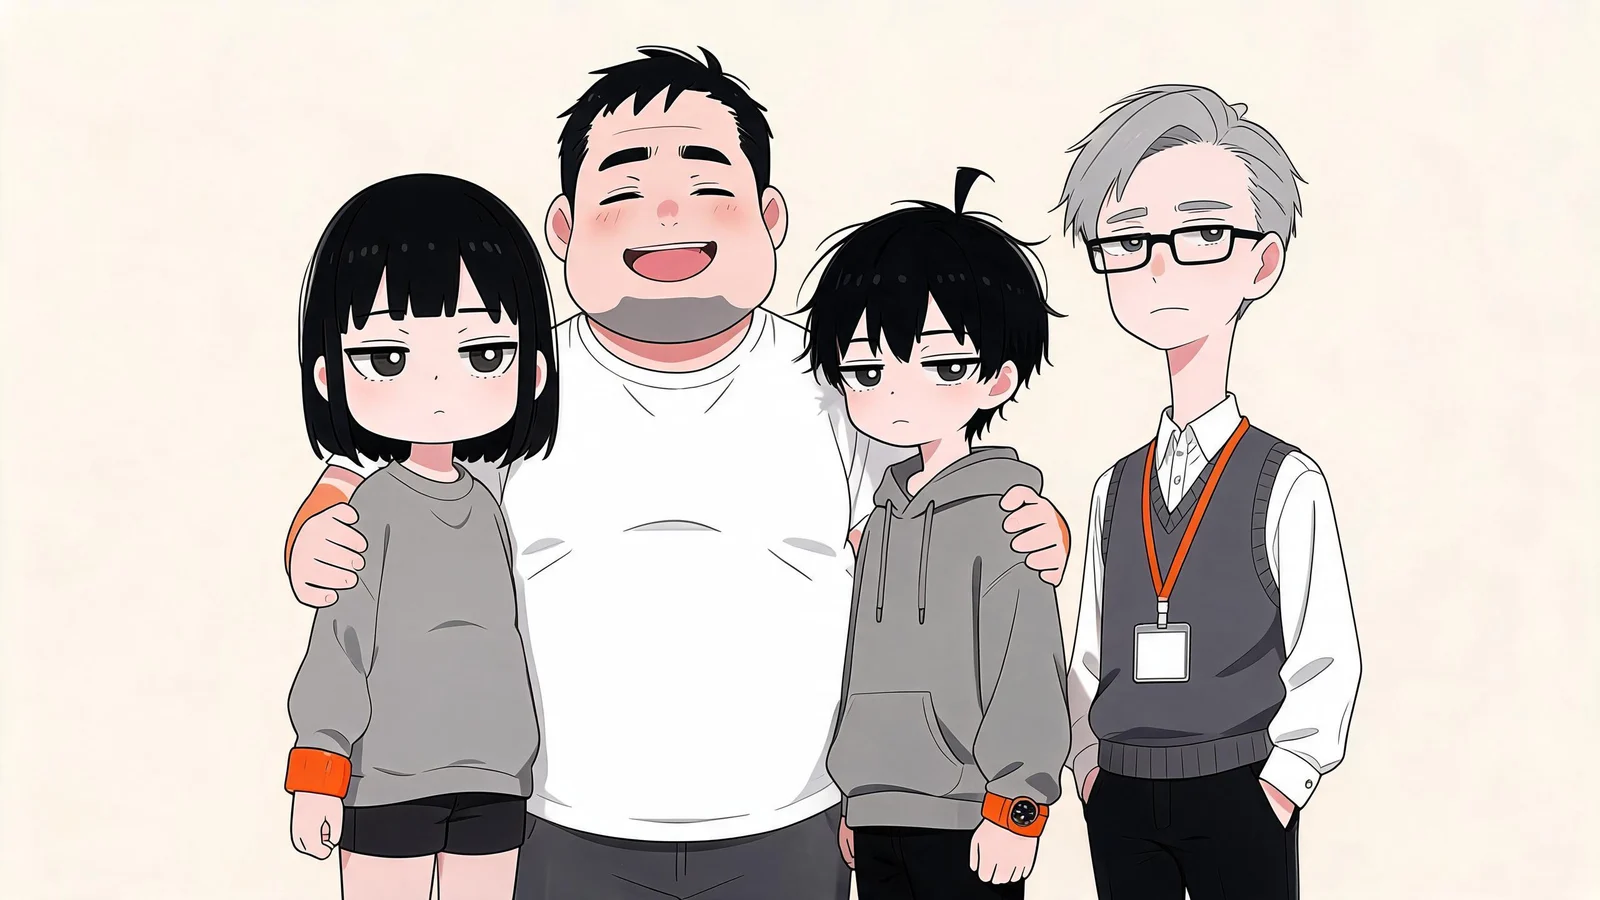
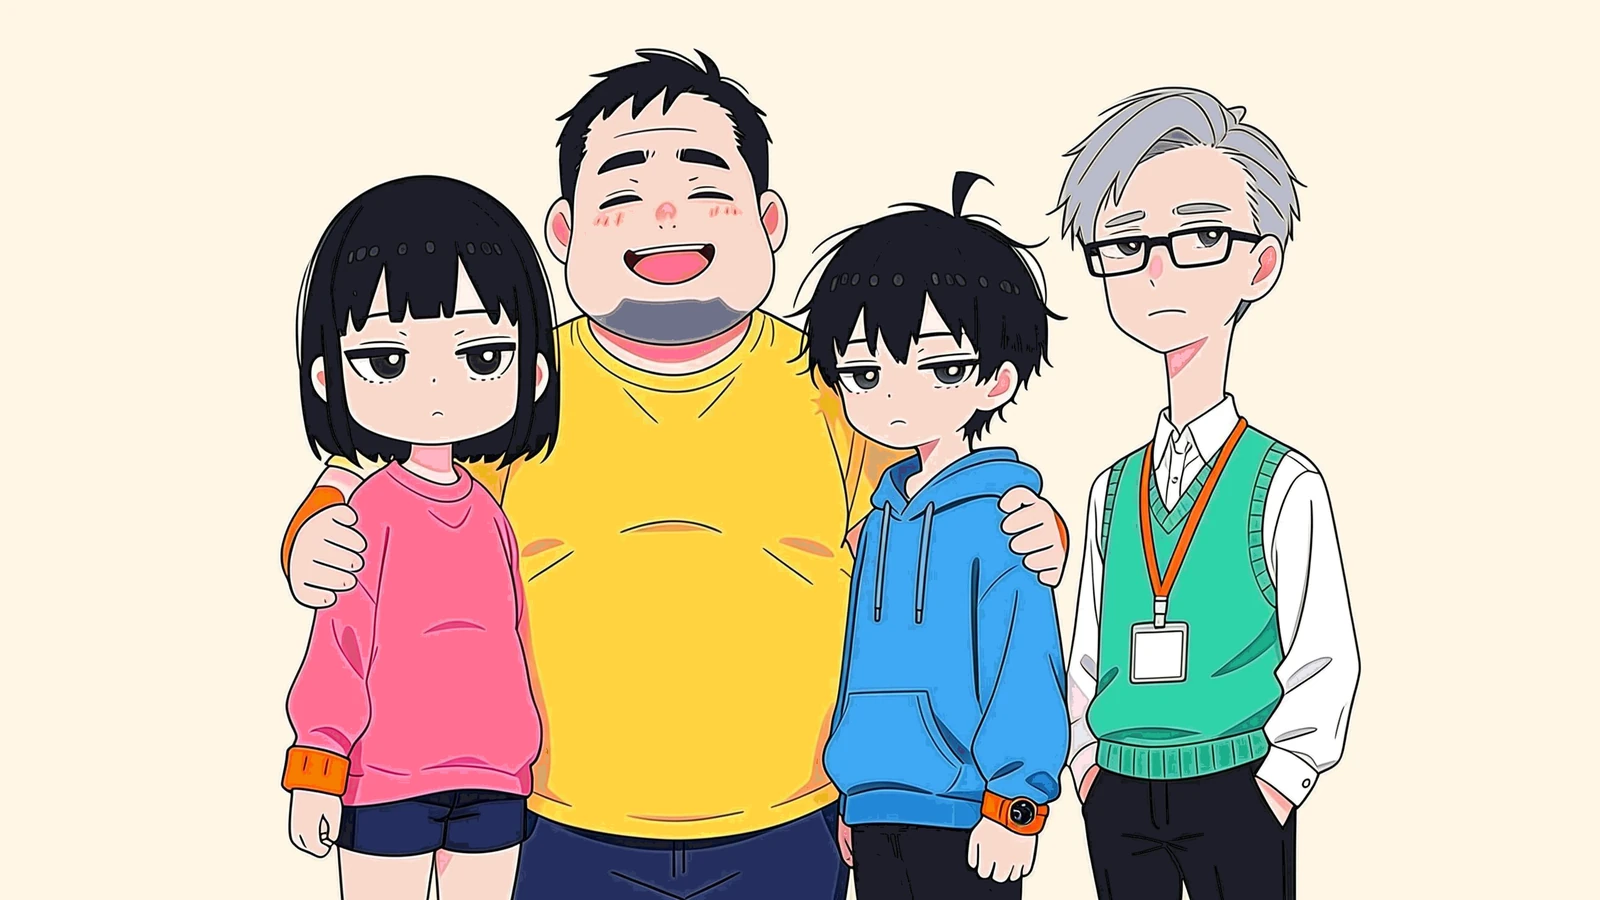
캐릭터 단체 사진(characters/family.webp)을 아동 컬러판(핑크·레몬·하늘색·민트)으로 다시 칠함

diff --git a/_tests/test_recolor_family.py b/_tests/test_recolor_family.py
@@ -1,0 +1,204 @@
+"""Item: recolour the characters group photo (assets/images/characters/family.webp).
+
+Done when
+- the image keeps the size and mode of the bb74c20 original (1600x900 RGB WebP),
+- colourfulness >= 8% AND clearly above the base (the mono base already scores
+  ~8.3% from blush/skin, so the 8% bar alone proves nothing),
+- each person's garment shows its PALETTE.md colour in their own area:
+  sister pink sweatshirt #FF6F91, dad lemon tee #FFD23F, brother sky hoodie
+  #3FA9F5, coworker mint knit vest #2ED3A8 (the base has grey/white clothes),
+- cream background kept, no other image in characters/ touched (scarecrow is
+  out of scope), work PNGs / candidates never land in the repo.
+Run: python _tests/test_recolor_family.py
+"""
+import colorsys
+import os
+import subprocess
+import sys
+import unittest
+
+sys.dont_write_bytecode = True
+sys.path.insert(0, os.path.dirname(os.path.abspath(__file__)))
+import imgcheck  # noqa: E402
+
+REL = "assets/images/characters/family.webp"
+MIN_COLOUR = 0.08
+MIN_GAIN = 0.05        # base ~0.083; four recoloured outfits add far more
+MIN_SHARE = 0.10       # garment colour must cover >= 10% of its torso box
+BASE_MAX_SHARE = 0.03  # sanity: the mono base must stay below this
+
+# Torso boxes as fractions (x0, y0, x1, y1) of the 16:9 frame, left to right:
+# sister | dad | brother | coworker. Generous so a slightly shifted edit still fits.
+BOXES = {
+    "sister": (0.18, 0.55, 0.33, 0.82),
+    "dad": (0.36, 0.40, 0.52, 0.80),
+    "brother": (0.53, 0.58, 0.66, 0.85),
+    "coworker": (0.70, 0.52, 0.80, 0.78),
+}
+
+
+def crop(img, box):
+    w, h = img.size
+    x0, y0, x1, y1 = box
+    return img.crop((int(x0 * w), int(y0 * h), int(x1 * w), int(y1 * h)))
+
+
+def hue_share(img, lo, hi, sat_min=0.30, val_min=0.0, val_max=1.0, max_side=256):
+    """Share of opaque pixels whose hue is in [lo, hi] (wraps if lo > hi)."""
+    img = img.convert("RGBA")
+    if max(img.size) > max_side:
+        img = img.copy()
+        img.thumbnail((max_side, max_side), imgcheck.Image.NEAREST)
+    total = hits = 0
+    for r, g, b, a in img.getdata():
+        if a < 128:
+            continue
+        total += 1
+        h, s, v = colorsys.rgb_to_hsv(r / 255, g / 255, b / 255)
+        h *= 360
+        inside = (lo <= h <= hi) if lo <= hi else (h >= lo or h <= hi)
+        if inside and s >= sat_min and val_min <= v <= val_max:
+            hits += 1
+    return hits / total if total else 0.0
+
+
+def pink_share(img):
+    # pink #FF6F91 (hue ~346); blush is pale (s < 0.35) and must not count
+    return hue_share(img, 325, 10, sat_min=0.40, val_min=0.60)
+
+
+def lemon_share(img):
+    # lemon #FFD23F (hue ~46); tangerine (~30) and cream (s ~0.10) excluded
+    return hue_share(img, 40, 62, sat_min=0.45, val_min=0.70)
+
+
+def sky_share(img):
+    # sky #3FA9F5 (hue ~205, bright); navy (dark) excluded
+    return hue_share(img, 188, 218, sat_min=0.30, val_min=0.70)
+
+
+def mint_share(img):
+    # mint #2ED3A8 (hue ~164)
+    return hue_share(img, 148, 182, sat_min=0.40, val_min=0.50)
+
+
+GARMENT = {
+    "sister": pink_share,
+    "dad": lemon_share,
+    "brother": sky_share,
+    "coworker": mint_share,
+}
+
+
+class TestRecolorFamily(unittest.TestCase):
+    def test_file_exists(self):
+        self.assertTrue(os.path.isfile(imgcheck.repo_path(REL)))
+
+    def test_changed_from_base(self):
+        with open(imgcheck.repo_path(REL), "rb") as f:
+            now = f.read()
+        self.assertFalse(imgcheck.original_bytes(REL) == now,
+                         "still the bb74c20 (mono) file")
+
+    def test_size_and_mode_match_base(self):
+        ok, msg = imgcheck.same_size_mode(REL)
+        self.assertTrue(ok, msg)
+
+    def test_still_webp(self):
+        self.assertEqual(imgcheck.current(REL).format, "WEBP")
+
+    def test_colourful_at_least_8pct_and_above_base(self):
+        old = imgcheck.colourfulness(imgcheck.original(REL))
+        new = imgcheck.colourfulness(imgcheck.current(REL))
+        self.assertGreaterEqual(new, MIN_COLOUR, f"{new:.3f} < {MIN_COLOUR}")
+        self.assertGreaterEqual(new, old + MIN_GAIN,
+                                f"{old:.3f} -> {new:.3f}, need +{MIN_GAIN}")
+
+    def test_each_garment_colour_in_its_place(self):
+        img = imgcheck.current(REL)
+        low = []
+        for who, fn in GARMENT.items():
+            share = fn(crop(img, BOXES[who]))
+            if share < MIN_SHARE:
+                low.append(f"{who}: {share:.3f}")
+        self.assertEqual(low, [], f"garment colour < {MIN_SHARE} in torso box")
+
+    def test_cream_background_kept(self):
+        # Top corners are background: must stay near cream #FFF6E5.
+        img = imgcheck.current(REL).convert("RGB")
+        w, h = img.size
+        bad = []
+        for xy in [(8, 8), (w - 9, 8)]:
+            r, g, b = img.getpixel(xy)
+            if abs(r - 0xFF) > 14 or abs(g - 0xF6) > 14 or abs(b - 0xE5) > 18:
+                bad.append(f"{xy}: {(r, g, b)}")
+        self.assertEqual(bad, [], "background is no longer cream")
+
+    def test_other_character_images_untouched(self):
+        # Only family.webp may change in characters/ (scarecrow etc. stay as is).
+        out = subprocess.run(
+            ["git", "diff", "--name-only", imgcheck.BASE, "--",
+             "assets/images/characters"],
+            cwd=imgcheck.REPO, capture_output=True, text=True, check=True).stdout
+        out += subprocess.run(
+            ["git", "status", "--porcelain", "--untracked-files=all",
+             "--", "assets/images/characters"],
+            cwd=imgcheck.REPO, capture_output=True, text=True, check=True).stdout
+        others = sorted({line.strip().split()[-1].strip('"')
+                         for line in out.splitlines() if line.strip()} - {REL})
+        self.assertEqual(others, [], "other images in characters/ changed")
+
+    def test_no_scarecrow_image_touched(self):
+        out = subprocess.run(
+            ["git", "diff", "--name-only", imgcheck.BASE, "--", "assets/images"],
+            cwd=imgcheck.REPO, capture_output=True, text=True, check=True).stdout
+        out += subprocess.run(
+            ["git", "status", "--porcelain", "--untracked-files=all", "--",
+             "assets/images"],
+            cwd=imgcheck.REPO, capture_output=True, text=True, check=True).stdout
+        hits = [l for l in out.splitlines()
+                if "scarecrow" in l.lower() or "허수" in l]
+        self.assertEqual(hits, [], "scarecrow image must not be recoloured")
+
+    def test_no_work_files_in_repo(self):
+        out = subprocess.run(
+            ["git", "status", "--porcelain", "--untracked-files=all", "--ignored"],
+            cwd=imgcheck.REPO, capture_output=True, text=True, check=True).stdout
+        stray = [line for line in out.splitlines()
+                 if "family" in line.lower()
+                 and line.lower().rstrip('"').endswith((".png", ".webp", ".jpg", ".jpeg"))
+                 and line[3:].strip().strip('"') != REL]
+        self.assertEqual(stray, [], "work PNG / candidate left inside the repo")
+
+
+class TestHelpers(unittest.TestCase):
+    def test_share_functions_pick_only_their_colour(self):
+        Image = imgcheck.Image
+
+        def solid(rgb):
+            return Image.new("RGBA", (4, 4), rgb + (255,))
+
+        colours = {
+            "sister": solid((0xFF, 0x6F, 0x91)),
+            "dad": solid((0xFF, 0xD2, 0x3F)),
+            "brother": solid((0x3F, 0xA9, 0xF5)),
+            "coworker": solid((0x2E, 0xD3, 0xA8)),
+        }
+        for who, fn in GARMENT.items():
+            for other, img in colours.items():
+                self.assertEqual(fn(img), 1.0 if who == other else 0.0,
+                                 f"{who} share on {other} colour")
+        for neutral in [(0xFF, 0xF6, 0xE5), (0xF5, 0x7C, 0x00), (0x34, 0x40, 0x7A),
+                        (128, 128, 128), (255, 255, 255), (0xF8, 0xC8, 0xC8)]:
+            for who, fn in GARMENT.items():
+                self.assertEqual(fn(solid(neutral)), 0.0, f"{who} on {neutral}")
+
+    def test_base_fails_garment_checks(self):
+        # The mono original must fail every garment check, else they prove nothing.
+        old = imgcheck.original(REL)
+        for who, fn in GARMENT.items():
+            self.assertLess(fn(crop(old, BOXES[who])), BASE_MAX_SHARE, who)
+
+
+if __name__ == "__main__":
+    unittest.main(verbosity=1)
